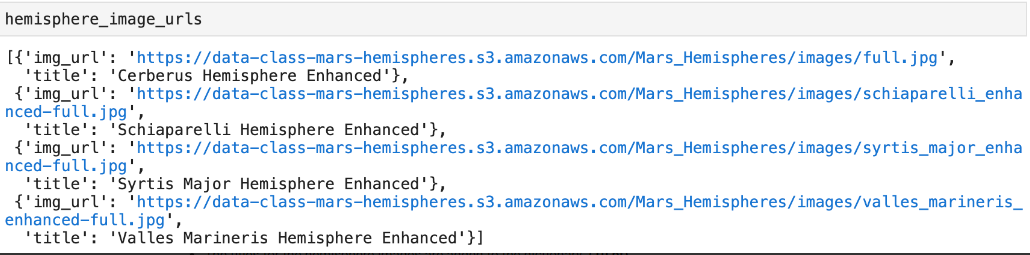
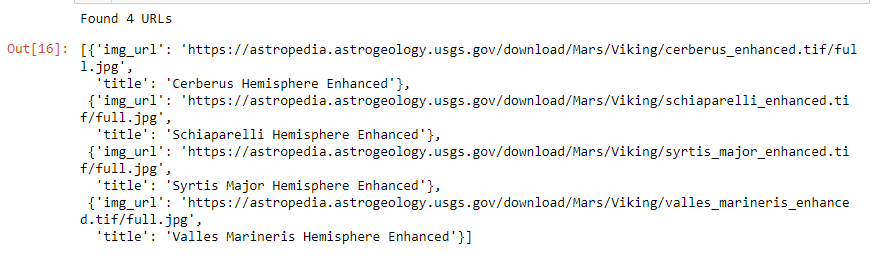
final challenge code

diff --git a/templates/index.html b/templates/index.html
@@ -1,0 +1,77 @@
+<!DOCTYPE html>
+<html lang="en">
+  <head>
+    <meta charset="UTF-8" />
+    <meta name="viewport" content="width=device-width, initial-scale=1.0" />
+    <meta http-equiv="X-UA-Compatible" content="ie=edge" />
+    <title>Mission to Mars</title>
+    <link
+      rel="stylesheet"
+      href="https://maxcdn.bootstrapcdn.com/bootstrap/3.3.7/css/bootstrap.min.css"
+    />
+  </head>
+  <body>
+    <div class="container">
+      <!-- Add Jumbotron to Header -->
+      <div class="jumbotron text-center">
+        <h1>Mission to Mars</h1>
+        <!-- Add a button to activate scraping script -->
+        <p><a class="btn btn-primary btn-lg" href="/scrape" role="button">Scrape New Data</a></p>
+      
+      </div>
+
+      <!-- Add section for Mars News -->
+      <div class="row" id="mars-news">
+        <div class="col-md-12">
+          <div class="media">
+            <div class="media-body">
+              <h2>Latest Mars News</h2>
+              <h4 class="media-heading">{{ mars.news_title }}</h4>
+              <p>{{ mars.news_paragraph }}</p>
+            </div>
+          </div>
+        </div>
+      </div>
+
+      <!-- Section for Featured Image and Facts table -->
+      <div class="row" id="mars-featured-image">
+        <div class="col-md-8">
+          <h2>Featured Mars Image</h2>
+
+          <!-- if images is False/None/non-existent, then default to error message -->
+          <img
+            src="{{mars.featured_image | default('static/images/error.png', true) }}"
+            class="img-responsive"
+            alt="Responsive image"
+          />
+        </div>
+
+        <div class="col-md-4">
+          <!-- Mars Facts -->
+          <div class="row" id="mars-facts">
+            <h4>Mars Facts</h4>
+            {{ mars.facts | safe }}
+          </div>
+        </div>
+      </div>
+
+      <!-- Section for Mars Hemispheres -->
+      <div class="row" id="mars-hemispheres">
+        <div class="page-header">
+          <h2 class="text-center">Mars Hemispheres</h2>
+        </div>
+
+        {% for hemisphere in mars.hemispheres %}
+        <div class="col-md-6">
+          <div class="thumbnail">
+            <img src="{{hemisphere.img_url | default('static/images/error.png', true)}}" alt="...">
+            <div class="caption">
+              <h3>{{hemisphere.title}}</h3>
+            </div>
+          </div>
+        </div>
+        {% endfor %}
+      </div>
+    </div>
+  </body>
+</html>

diff --git a/scraping.py b/scraping.py
@@ -1,0 +1,161 @@
+# Import Splinter, BeautifulSoup, and Pandas
+from splinter import Browser
+from bs4 import BeautifulSoup as soup
+import pandas as pd
+import datetime as dt
+from webdriver_manager.chrome import ChromeDriverManager
+
+
+def scrape_all():
+    # Initiate headless driver for deployment
+    executable_path = {'executable_path': ChromeDriverManager().install()}
+    browser = Browser('chrome', **executable_path, headless=True)
+
+    news_title, news_paragraph = mars_news(browser)
+
+    # Run all scraping functions and store results in a dictionary
+    data = {
+        "news_title": news_title,
+        "news_paragraph": news_paragraph,
+        "featured_image": featured_image(browser),
+        "facts": mars_facts(),
+        "hemispheres": mars_hemispheres(browser),
+        "last_modified": dt.datetime.now()
+    }
+
+    # Stop webdriver and return data
+    browser.quit()
+    return data
+
+
+def mars_news(browser):
+
+    # Scrape Mars News
+    # Visit the mars nasa news site
+    url = 'https://mars.nasa.gov/news'
+    browser.visit(url)
+
+    # Optional delay for loading the page
+    browser.is_element_present_by_css('ul.item_list li.slide', wait_time=1)
+
+    # Convert the browser html to a soup object and then quit the browser
+    html = browser.html
+    news_soup = soup(html, 'html.parser')
+
+    # Add try/except for error handling
+    try:
+        slide_elem = news_soup.select_one('ul.item_list li.slide')
+        #slide_elem.find("div", class_ = 'content_title')
+        
+        # Use the parent element to find the first 'a' tag and save it as 'news_title'
+        news_title = slide_elem.find('div', class_='content_title').get_text()
+        # Use the parent element to find the paragraph text
+        news_p = slide_elem.find('div', class_='article_teaser_body').get_text()
+
+    except AttributeError:
+        return None, None
+
+    return news_title, news_p
+
+
+def featured_image(browser):
+    # Visit URL
+    url = 'https://spaceimages-mars.com'
+    browser.visit(url)
+
+    # Find and click the full image button
+    full_image_elem = browser.find_by_tag('button')[1]
+    full_image_elem.click()
+
+    # Parse the resulting html with soup
+    html = browser.html
+    img_soup = soup(html, 'html.parser')
+
+    # Add try/except for error handling
+    try:
+        # Find the relative image url
+        img_url_rel = img_soup.find('img', class_='fancybox-image').get('src')
+
+    except AttributeError:
+        return None
+
+    # Use the base url to create an absolute url
+    img_url = f'https://spaceimages-mars.com/{img_url_rel}'
+
+    return img_url
+
+def mars_facts():
+    # Add try/except for error handling
+    try:
+        # Use 'read_html' to scrape the facts table into a dataframe
+        df = pd.read_html('https://galaxyfacts-mars.com')[0]
+
+    except BaseException:
+        return None
+
+    # Assign columns and set index of dataframe
+    df.columns=['Description', 'Mars']
+    df.set_index('Description', inplace=True)
+
+    # Convert dataframe into HTML format, add bootstrap
+    return df.to_html(classes="table table-striped")
+
+#Hemispheres
+def mars_hemispheres(browser):
+ #1 use broswer  to visit url
+    url='https://marshemispheres.com/'
+
+    browser.visit(url + 'index.html')
+
+    # 2. Create a list to hold the images and titles.
+    hemisphere_image_urls = []
+    #links=browser.find_by_css ("a.product_item h3")
+
+    # 3. Write code to retrieve the image urls and titles for each hemisphere.
+    for i in range (len(4)):
+        hemispheres = {}
+        browser.find_by_css("a.product_item img")[i]. click()
+        hemi_data = scrape_hemisphere(browser.html)
+        hemi_data['img_url'] = url + hemi_data['img_url']
+        # Append hemisphere object to list
+        hemisphere_image_urls.append(hemi_data)
+        # Finally, we navigate backwards
+        browser.back()
+
+    return hemisphere_image_urls
+
+        #except BaseException:
+                #return none
+        
+            #sample_elem= browser.find_by_text('Sample').first
+           # hemispheres['img_url']= sample_elem['href']       
+            #hemispheres['title']= browser.find_by_css("h2.title").text
+            #hemisphere_image_urls.append(hemispheres)
+            #browser.back()
+            #return hemisphere_image_urls
+
+def scrape_hemisphere(html_text):
+    # parse html text
+    hemi_soup = soup(html_text, "html.parser")
+
+    # adding try/except for error handling
+    try:
+        title_elem = hemi_soup.find("h2", class_="title").get_text()
+        sample_elem = hemi_soup.find("a", text="Sample").get("href")
+
+    except AttributeError:
+        # Image error will return None, for better front-end handling
+        title_elem = None
+        sample_elem = None
+
+    hemispheres = {
+        "title": title_elem,
+        "img_url": sample_elem
+    }
+
+    return mars_hemispheres
+
+if __name__ == "__main__":
+
+    # If running as script, print scraped data
+    print(scrape_all())

diff --git a/Mission_to_Mars_Challenge.py b/Mission_to_Mars_Challenge.py
@@ -124,7 +124,7 @@ df.to_html()
 #browser.quit()
 
 
-# In[20]:
+# In[16]:
 
 
 # Import Splinter, BeautifulSoup, and Pandas
@@ -219,31 +219,28 @@ print(f'Found {len(relative_urls)} URLs')
 base_url = 'https://astrogeology.usgs.gov'
 
 # 3. Write code to retrieve the image urls and titles for each hemisphere.
-for relative_url in relative_urls:
+for x in range (4):
     hemispheres = {}
+    try:
+        #loop to find all elements
+        browser.find_by_css("a.product-item h3")[x].click()
+    except BaseException:
+        print(f'Bad img-url link (hemispheres_images_urls) ... try again',end='')
+   
+    #find sample
+    sample_elem= browser.links.find_by_text('Sample').first
+    hemispheres['img_url'] = sample_elem['href']
     
-    full_url = f'{base_url}{relative_url}'
-    browser.visit(full_url)
-    browser.links.find_by_text('Open').click()
+    #get titles
+    title = browser.find_by_css("h2.title").text
+    hemispheres["title"]= title
     
-    html = browser.html
-    urls_soup = soup(html, 'html.parser')
-    
-    downloads_div = urls_soup.find('div', class_='downloads')
-    img_anchor = downloads_div.find('a', text=re.compile('Sample'))****
-    img_url = img_anchor['href']
-    print(f'--> url: {img_url}')
-    
-    title_elem = urls_soup.select_one('div.content')
-    title = title_elem.find("h2", class_='title').get_text()
-    print(f'--> title: {title}')
-    hemispheres = {
-        'img_url': img_url,
-        'title': title,
-    }
+    #append hemispheres
     hemisphere_image_urls.append(hemispheres)
 
-print('Done')
+    #loop until all 4 done
+    browser.back()
+
 
 # 4. Print the list that holds the dictionary of each image url and title.
 hemisphere_image_urls
